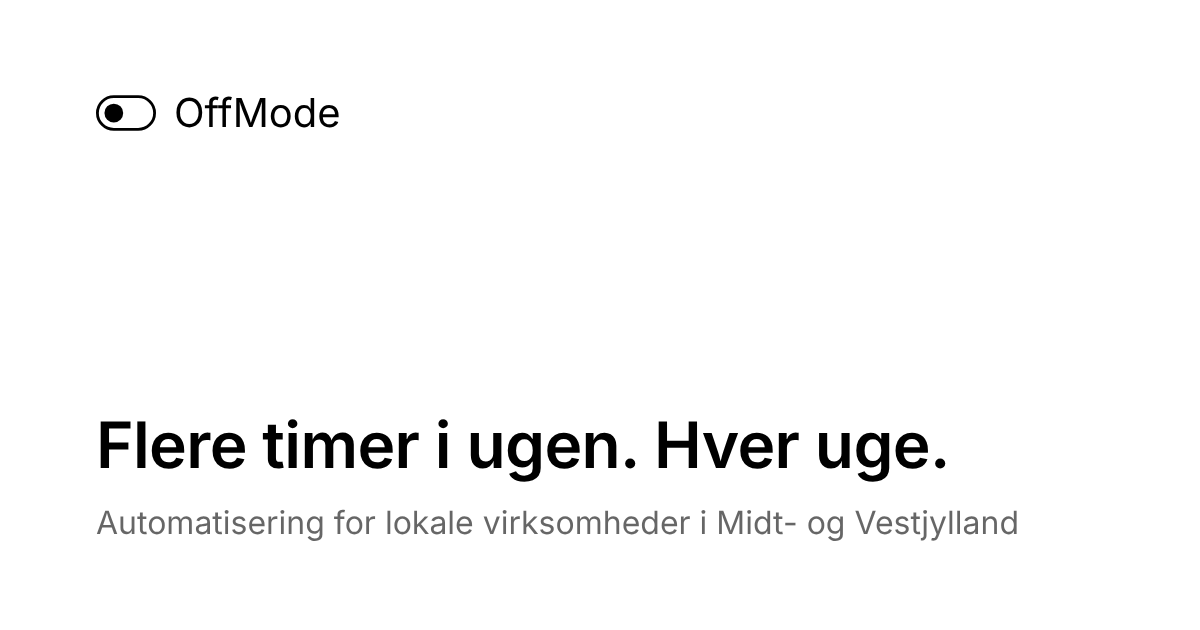
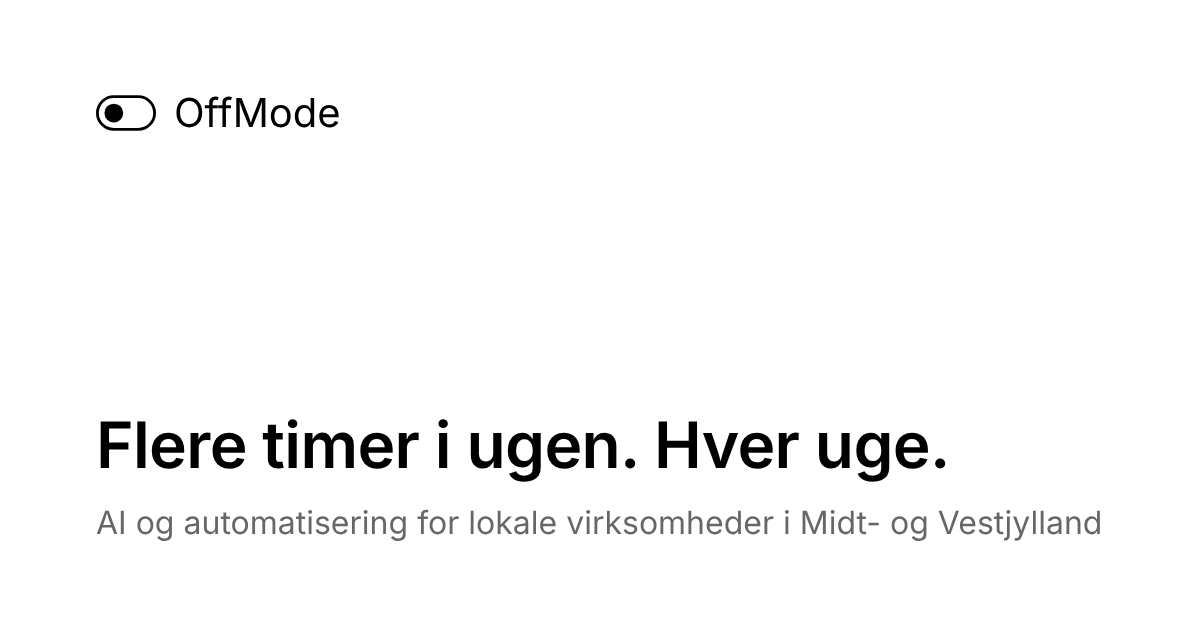
Title and share image: AI og automatisering
Claude-Session: https://claude.ai/code/session_01JQ91VV55D3t8mimoyPje74

Changed region(s): [[0.0925, 0.8143, 0.925, 0.8746]]

diff --git a/index.html b/index.html
@@ -3,7 +3,7 @@
 <head>
 <meta charset="utf-8">
 <meta name="viewport" content="width=device-width, initial-scale=1">
-<title>OffMode – Automatisering for lokale virksomheder i Midt- og Vestjylland</title>
+<title>OffMode – AI og automatisering for lokale virksomheder i Midt- og Vestjylland</title>
 <meta name="description" content="Jeg hedder Kim og automatiserer det kedelige arbejde for lokale virksomheder i Midt- og Vestjylland. Tilbud, mails, annoncer og alt det andet, der skal gøres. Bare ikke af dig.">
 <meta property="og:type" content="website">
 <meta property="og:site_name" content="OffMode">
